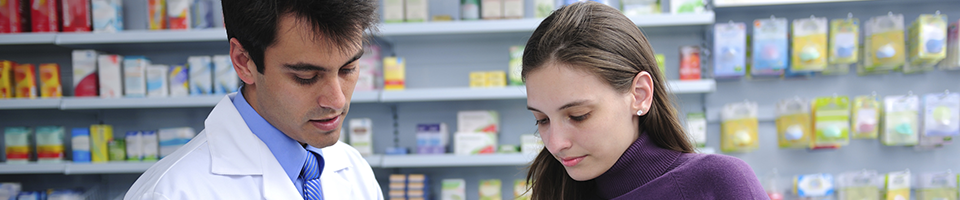
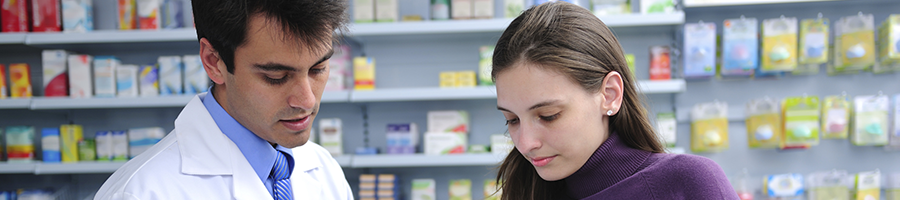
formation table designed + header img add on category page

diff --git a/wp-content/themes/adiathis/style.css b/wp-content/themes/adiathis/style.css
@@ -377,6 +377,27 @@ header .content {
 
 /* FORMATIONS */
 
+.headerImg {
+    background-image: url("images/headerImg.png");
+    width: 900px;
+    height: 200px;
+    margin-bottom: 20px;
+}
+
+.category table tr td {
+    padding-right: 20px;
+}
+
+.category table tr td:last-child {
+    padding-right: 0;
+}
+
+.category .wrap-main .content li {
+    list-style: initial;
+    list-style-type: disc; 
+    list-style-position: inside; 
+}
+
 .path {
     color: #1870ba;
     border-right: 4px solid #1870ba;

diff --git a/wp-content/themes/adiathis/category.php b/wp-content/themes/adiathis/category.php
@@ -8,6 +8,7 @@
             <?php single_cat_title(); ?>
             <span class="line"></span>
         </h1>
+        <div class="headerImg"></div>
         <?php echo category_description(); ?>
     </div>
 </div>
